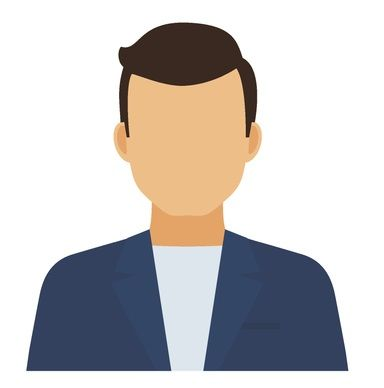
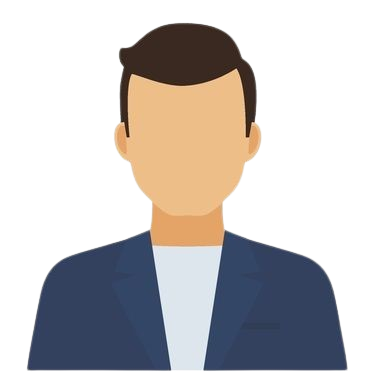
perubahan landing page

diff --git a/assets/css/styles.css b/assets/css/styles.css
@@ -761,3 +761,45 @@ body {
 .about-links a:hover {
     color: #84c180;
 }
+/* BACKGROUND GELAP POP-UP */
+.modal-overlay {
+    position: fixed; top: 0; left: 0; width: 100%; height: 100%;
+    background: rgba(0, 0, 0, 0.5);
+    z-index: 99999;
+    display: flex; align-items: center; justify-content: center;
+    backdrop-filter: blur(4px);
+}
+
+/* KOTAK PUTIHNYA */
+.modal-content {
+    background: #fff; width: 90%; max-width: 500px;
+    border-radius: 16px; padding: 24px; position: relative;
+    max-height: 80vh; overflow-y: auto;
+    font-family: 'Poppins', sans-serif;
+    animation: muncul 0.3s ease-out;
+}
+
+@keyframes muncul {
+    from { transform: translateY(20px); opacity: 0; }
+    to { transform: translateY(0); opacity: 1; }
+}
+
+.modal-close {
+    position: absolute; top: 16px; right: 16px;
+    background: #eee; border: none; font-size: 20px;
+    width: 32px; height: 32px; border-radius: 50%;
+    cursor: pointer; display: flex; align-items: center; justify-content: center;
+}
+.modal-close:hover { background: #ff4d4d; color: #fff; }
+
+.modal-title { font-size: 20px; margin-bottom: 4px; color: #111; }
+.modal-desc { font-size: 13px; color: #666; margin-bottom: 16px; }
+
+/* TAMPILAN MENU DI DALAM POP-UP */
+.modal-menu-list { display: flex; flex-direction: column; gap: 10px; }
+.menu-item-modal {
+    border: 1px solid #eee; padding: 12px; border-radius: 10px;
+    display: flex; justify-content: space-between; align-items: center;
+}
+.menu-item-nama { font-weight: 600; font-size: 14px; color: #111;}
+.menu-item-harga { font-weight: 700; color: #71B668; font-size: 14px;}

diff --git a/index.php b/index.php
@@ -7,7 +7,7 @@
 <head>
     <meta charset="UTF-8">
     <meta name="viewport" content="width=device-width, initial-scale=1.0">
-    <link rel="stylesheet" href="./assets/css/styles.css">
+    <link rel="stylesheet" href="./assets/css/styles.css?v=2">
     <title>E-Kantin</title>
     <!-- <?php //include 'views/layouts/header.php'; ?> -->
 </head>
@@ -94,6 +94,80 @@
         window.addEventListener('scroll', updateActive);
         updateActive();
     </script>
-</body>
+    <div id="modalKantin" class="modal-overlay" style="display: none;">
+    <div class="modal-content">
+        <button class="modal-close" onclick="tutupModal()">×</button>
+        
+        <h2 id="modalNama" class="modal-title">Nama Kantin</h2>
+        <p id="modalDesc" class="modal-desc">Deskripsi kantin</p>
+        
+        <div class="info-tunai" style="margin-bottom: 16px; font-size: 12px; background: #fff3cd; color: #856404; padding: 8px 12px; border-radius: 6px; border: 1px solid #ffeeba;">
+            ⚠️ <b>Perhatian:</b> Saat ini pembayaran hanya dapat dilakukan secara tunai di kasir.
+        </div>
 
+        <h3 style="font-size: 15px; margin-bottom: 10px; font-family: 'Poppins', sans-serif;">Daftar Menu</h3>
+        <div id="modalIsiMenu" class="modal-menu-list">
+            </div>
+    </div>
+</div>
+<script>
+    // Fungsi untuk memanggil data dan membuka Pop-up
+async function bukaModal(id_toko) {
+    const modal = document.getElementById('modalKantin');
+    const containerMenu = document.getElementById('modalIsiMenu');
+    
+    // Tampilkan modal dengan status loading
+    modal.style.display = 'flex';
+    document.getElementById('modalNama').textContent = "Memuat data...";
+    document.getElementById('modalDesc').textContent = "Tunggu sebentar...";
+    containerMenu.innerHTML = '<p style="text-align:center; color:#888;">Sedang mengambil menu...</p>';
+
+    try {
+        // Minta data ke PHP
+        const merespon = await fetch(`get_detail.php?id=${id_toko}`);
+        const data = await merespon.json();
+
+        // Ganti teks judul dan deskripsi
+        document.getElementById('modalNama').textContent = data.toko.nama_toko;
+        document.getElementById('modalDesc').textContent = data.toko.deskripsi || '-';
+
+        // Susun HTML untuk menu
+        let htmlMenu = '';
+        if (data.menus && data.menus.length > 0) {
+            data.menus.forEach(m => {
+                htmlMenu += `
+                <div class="menu-item-modal">
+                    <div>
+                        <div class="menu-item-nama">${m.nama_menu}</div>
+                    </div>
+                    <div class="menu-item-harga">Rp ${parseInt(m.harga).toLocaleString('id-ID')}</div>
+                </div>`;
+            });
+        } else {
+            htmlMenu = '<p style="font-size:13px; color:#888;">Belum ada menu di kantin ini.</p>';
+        }
+        
+        // Tampilkan menunya
+        containerMenu.innerHTML = htmlMenu;
+
+    } catch (error) {
+        console.error(error);
+        containerMenu.innerHTML = '<p style="color:red; font-size:13px;">Gagal memuat data menu.</p>';
+    }
+}
+
+// Fungsi menutup pop-up
+function tutupModal() {
+    document.getElementById('modalKantin').style.display = 'none';
+}
+
+// Menutup pop-up kalau user ngeklik area luar kotak putih
+window.onclick = function(event) {
+    const modal = document.getElementById('modalKantin');
+    if (event.target == modal) {
+        modal.style.display = "none";
+    }
+}
+</script>
+</body>
 </html>

diff --git a/views/layouts/hero.php b/views/layouts/hero.php
@@ -118,17 +118,18 @@ $semuaMenu = mysqli_fetch_all(mysqli_query(
     }
 
     .search-dropdown {
-        position: fixed;
-        left: 50%;
-        transform: translateX(-50%);
-        width: min(480px, 90vw);
-        background: #fff;
-        border-radius: 12px;
-        box-shadow: 0 8px 24px rgba(0, 0, 0, 0.15);
-        max-height: 480px;
-        overflow-y: auto;
-        z-index: 9999;
-    }
+    position: absolute;
+    top: 100%; 
+    left: 0;
+    margin-top: 8px; 
+    width: 100%; 
+    background: #fff;
+    border-radius: 12px;
+    box-shadow: 0 8px 24px rgba(0, 0, 0, 0.15);
+    max-height: 480px;
+    overflow-y: auto;
+    z-index: 9999;
+}
 
     .search-item {
         display: flex;
@@ -207,7 +208,7 @@ $semuaMenu = mysqli_fetch_all(mysqli_query(
 <!-- Tambah div wrapper di luar hero-header -->
 <div style="position:relative">
 
-    <div class="hero-header" style="overflow:hidden;">
+    <div class="hero-header" style="overflow:visible;">
         <div class="hero-logo">
             <img src="./assets/img/logo-esemkita.png" alt="Logo" />
         </div>
@@ -223,15 +224,10 @@ $semuaMenu = mysqli_fetch_all(mysqli_query(
                 <line x1="21" y1="21" x2="16.65" y2="16.65" />
             </svg>
             <input type="text" placeholder="Cari menu..." id="heroSearchInput" autocomplete="off" />
+            <div id="searchDropdown" class="search-dropdown" style="display:none"></div>
+        </div>
         </div>
     </div>
-
-    <!-- Dropdown di LUAR hero-header tapi masih di dalam wrapper -->
-
-</div>
-
-<div id="searchDropdown" class="search-dropdown" style="display:none"></div>
-
 
 
 <script>
@@ -241,9 +237,8 @@ $semuaMenu = mysqli_fetch_all(mysqli_query(
     const dropdown = document.getElementById('searchDropdown');
 
     input.addEventListener('input', function () {
-        const q = this.value.trim().toLowerCase();
+        const q = this.value.trim().toLowerCase()
         const searchRect = input.getBoundingClientRect();
-        dropdown.style.top = (searchRect.bottom + 8) + 'px';
 
 
         if (q.length < 2) {
@@ -260,16 +255,16 @@ $semuaMenu = mysqli_fetch_all(mysqli_query(
             dropdown.innerHTML = '<div class="search-empty">Menu tidak ditemukan</div>';
         } else {
             dropdown.innerHTML = `
-            <div style="display:grid;grid-template-columns:repeat(2,1fr);gap:12px;padding:12px">
+            <div style="display: flex; flex-wrap: wrap; justify-content: center; gap: 12px; padding: 12px;">
                 ${hasil.slice(0, 8).map(m => `
-                    <a class="search-item" href="./kantin/detail.php?id=${m.id_toko}" style="flex-direction:column;align-items:flex-start;padding:0;border-radius:12px;border:1.5px solid #eee;overflow:hidden;text-decoration:none">
-                        <img style="width:100%;height:140px;object-fit:cover;display:block;background:#eee"
+                    <a class="search-item" href="./kantin/detail.php?id=${m.id_toko}" style="display: flex; flex-direction: column; align-items: flex-start; padding: 0; border-radius: 12px; border: 1.5px solid #eee; overflow: hidden; text-decoration: none; width: 220px; box-sizing: border-box;">
+                        <img style="width: 100%; height: 140px; object-fit: cover; display: block; background: #eee;"
                             src="${m.foto_menu ? './assets/img/menu/' + m.foto_menu : ''}"
                             onerror="this.style.background='#eee';this.style.minHeight='140px'">
-                        <div style="padding:10px 12px 12px">
+                        <div style="padding: 10px 12px 12px; width: 100%; box-sizing: border-box;">
                             <div class="search-item-nama">${m.nama_menu}</div>
-                            <div style="font-size:12px;color:#555;font-family:Poppins,sans-serif;margin:2px 0 6px">Rp ${parseInt(m.harga).toLocaleString('id-ID')}</div>
-                            <span style="background:#e8f5e9;color:#79b775;font-size:10px;font-weight:700;padding:2px 10px;border-radius:20px;font-family:Poppins,sans-serif">
+                            <div style="font-size: 12px; color: #555; font-family: Poppins, sans-serif; margin: 2px 0 6px;">Rp ${parseInt(m.harga).toLocaleString('id-ID')}</div>
+                            <span style="background: #e8f5e9; color: #79b775; font-size: 10px; font-weight: 700; padding: 2px 10px; border-radius: 20px; font-family: Poppins, sans-serif;">
                                 ${m.nama_toko}
                             </span>
                         </div>

diff --git a/get_detail.php b/get_detail.php
@@ -1,0 +1,19 @@
+<?php
+require_once 'config/database.php';
+
+$id = isset($_GET['id']) ? intval($_GET['id']) : 0;
+
+// Ambil data toko
+$queryToko = mysqli_query($conn, "SELECT * FROM toko WHERE id_toko = $id");
+$toko = mysqli_fetch_assoc($queryToko);
+
+// Ambil daftar menu
+$queryMenu = mysqli_query($conn, "SELECT * FROM menu WHERE id_toko = $id AND tersedia = 1");
+$menus = mysqli_fetch_all($queryMenu, MYSQLI_ASSOC);
+
+// Kembalikan dalam bentuk JSON
+echo json_encode([
+    'toko' => $toko,
+    'menus' => $menus
+]);
+?>

diff --git a/views/layouts/kantin.php b/views/layouts/kantin.php
@@ -24,8 +24,7 @@ $kantins = mysqli_fetch_all(mysqli_query(
             <div class="kantin-card-body">
                 <span class="kantin-card-badge"><?= htmlspecialchars($kantin['nama_toko']) ?></span>
                 <p class="kantin-card-desc"><?= htmlspecialchars($kantin['deskripsi'] ?? '-') ?></p>
-                <button class="btn-selengkap"
-                    onclick="window.location.href='./kantin/detail.php?id=<?= $kantin['id_toko'] ?>'">
+                <button class="btn-selengkap" onclick="bukaModal('<?= $kantin['id_toko'] ?>')">
                     Selengkapnya
                 </button>
             </div>